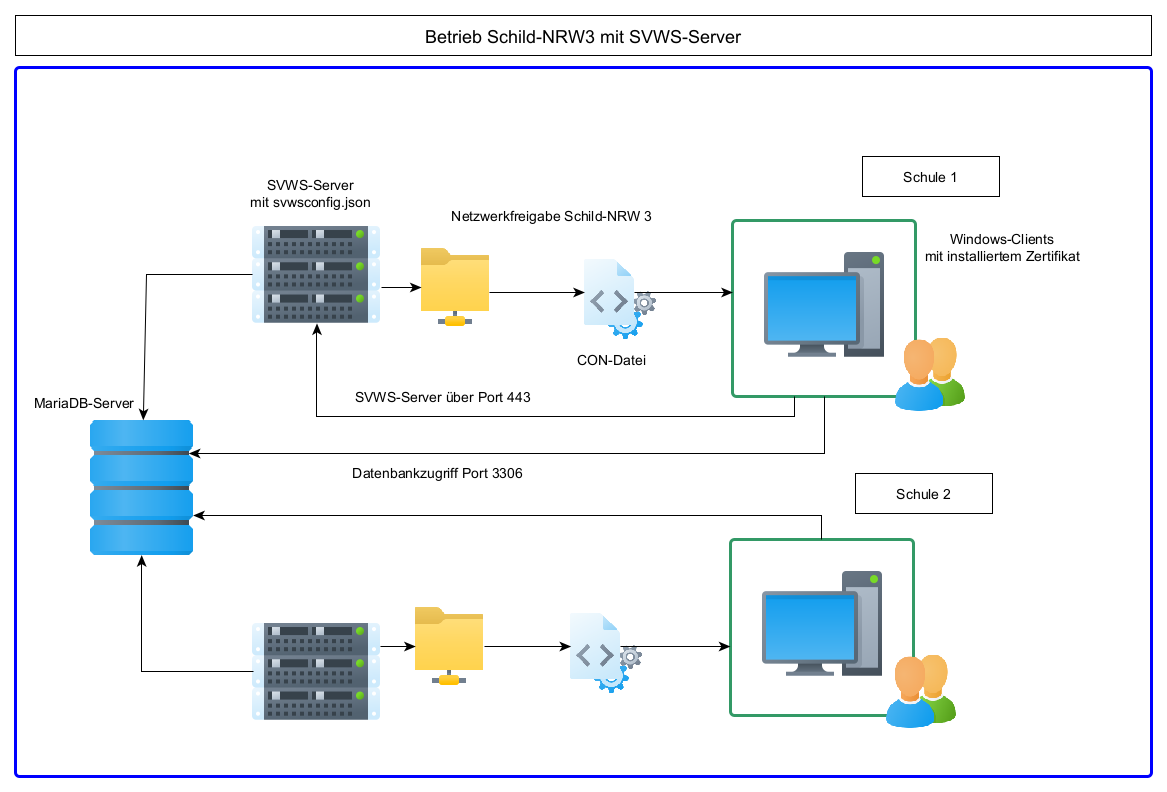
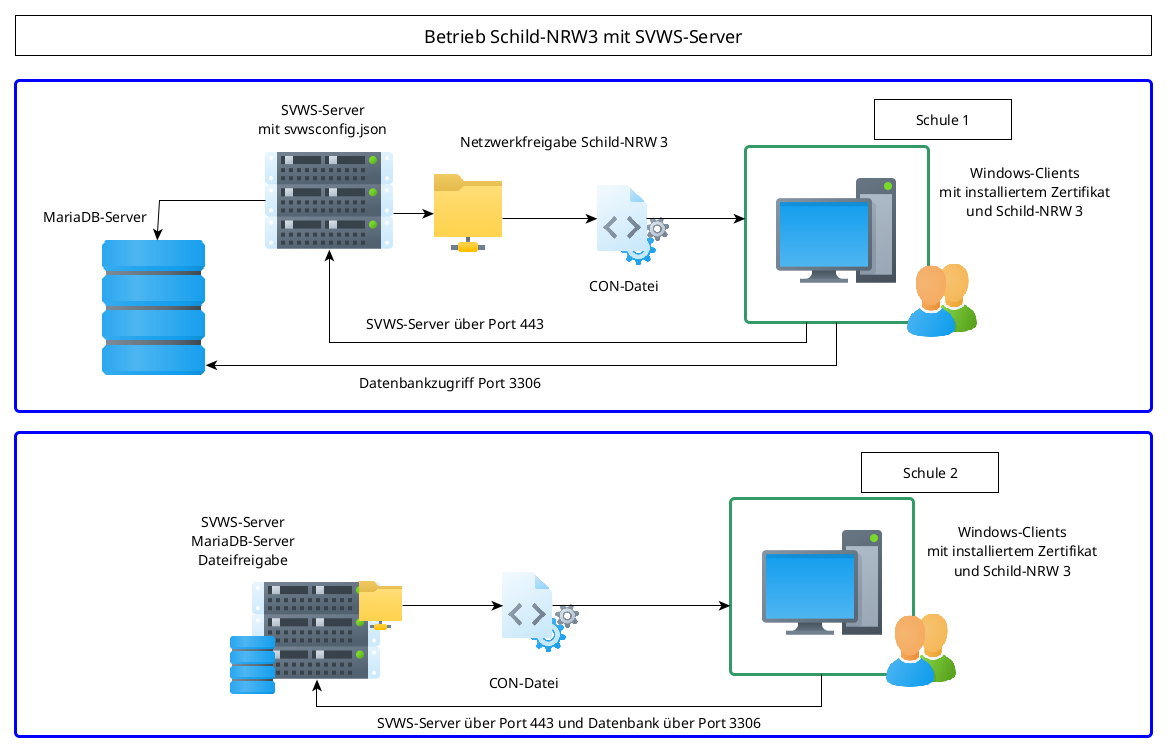
Weitere Kommentare zur Installation.

diff --git a/deployment/Schild-NRW3/index.md b/deployment/Schild-NRW3/index.md
@@ -22,6 +22,12 @@ Die MariaDB-Datenbank kann separat betrieben werden. Diese kann aber auch auf de
 Schild-NRW 3 benötigt, so wie Schild-NRW 2, eine Konfigurationsdatei in der die notwendigen Angaben für die Zugänge stehen. Diese hat die Endung .con und enthält die URL (und Port) zum SVWS-Server und zur MariaDB-Datenbank.
 Das Programm Schild-NRW 3 kann nach wie vor über eine Dateifreigabe an die Windows-Clients ausgeliefert werden.
 
+Wie im Schaubild zu sehen, kann der SVWS-Server und die MariaDB auf getrennten Servern liegen.
+Auch die Ports können in den Konfigurationsdateien eingestellt werden.
+Wie im unteren Schaubild zu sehen, kann auch alles auf einem Server bereitgestellt werden.
+Diese Auswahl hängt auch vom Grad der Virtualisierung ab, die vewendet wird.
+Auch die Anzahl der Server pro Schulen kann je nach Umgebung bestimmt werden.
+
 Der momentan noch im Aufbau befindliche Web-Client steht über den SVWS-Server immer auch zur Verfügung und kann über die URL (und ggf. den Port) im Browser aufgerufen werden. Getestet werdne Firefox, Edge, Chrome und Safari.
 
 ## Installation SVWS-Server
@@ -35,7 +41,7 @@ https://github.com/SVWS-NRW/SVWS-Dokumentation/blob/main/deployment/Windows-Inst
 Für IT-Dienstleister, die mehrere Schulen betreuen, kann es sinnvoll sein, den SVWS-Server ohne eine erste Datenbank zu installieren.
 Der SVWS-Server startet auch, wenn bei der Installation keine neue Datenbank erzeugt wird.
 
-Über den Admin-Client können dann die gewünschten Datenbanken Migriert oder erstellt werden.
+Über den Admin-Client können dann die gewünschten Datenbanken migriert oder erstellt werden.
 
 ## Installation Schild-NRW 3
 
@@ -46,8 +52,14 @@ https://schulverwaltungsinfos.nrw.de/svws/wiki/index.php?title=Schnellinstallati
 
 ## Konfigurationen
 
-Schild-NRW 3 bentig für jede Adtenbank eine .con-Datei, die im Unterordner "Connection-Files" der Schild-NRW 3-Arbeitsverzeichnis liegt.
+Schild-NRW 3 bentig für jede Datenbank eine .con-Datei, die im Unterordner "Connection-Files" der Schild-NRW 3-Arbeitsverzeichnis liegt.
 Diese .con-Datei ist eine reine Textdatei im UTF-8 Format.
 
 Der SVWS-Server erstellt bei der Installation eine svwsconfig.json. Diese Datei enthält alle benötigten Angaben für den Betrieb des SVWS-Servers.
 
+https://doku.svws-nrw.de/deployment/Einrichtung/
+
+Die Einstellungen des SVWS-Server können nach Bedarf gesetzt werden.
+Der Bereich der Schema-Einstellunen wird vom SVWS-Server z.B. durch den Admin-Client gesetzt!
+
+https://doku.svws-nrw.de/adminclient/administration/
